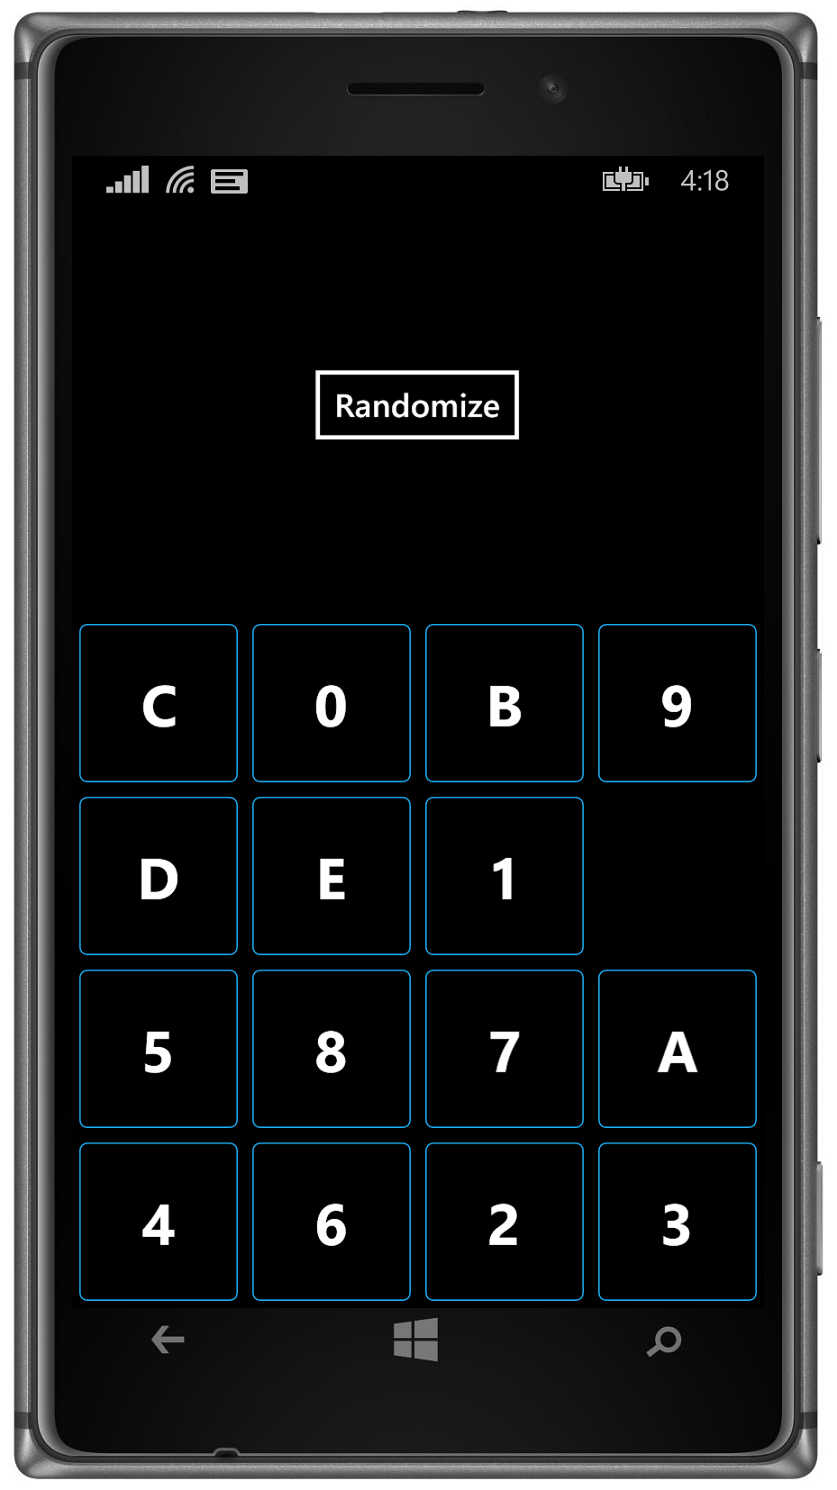
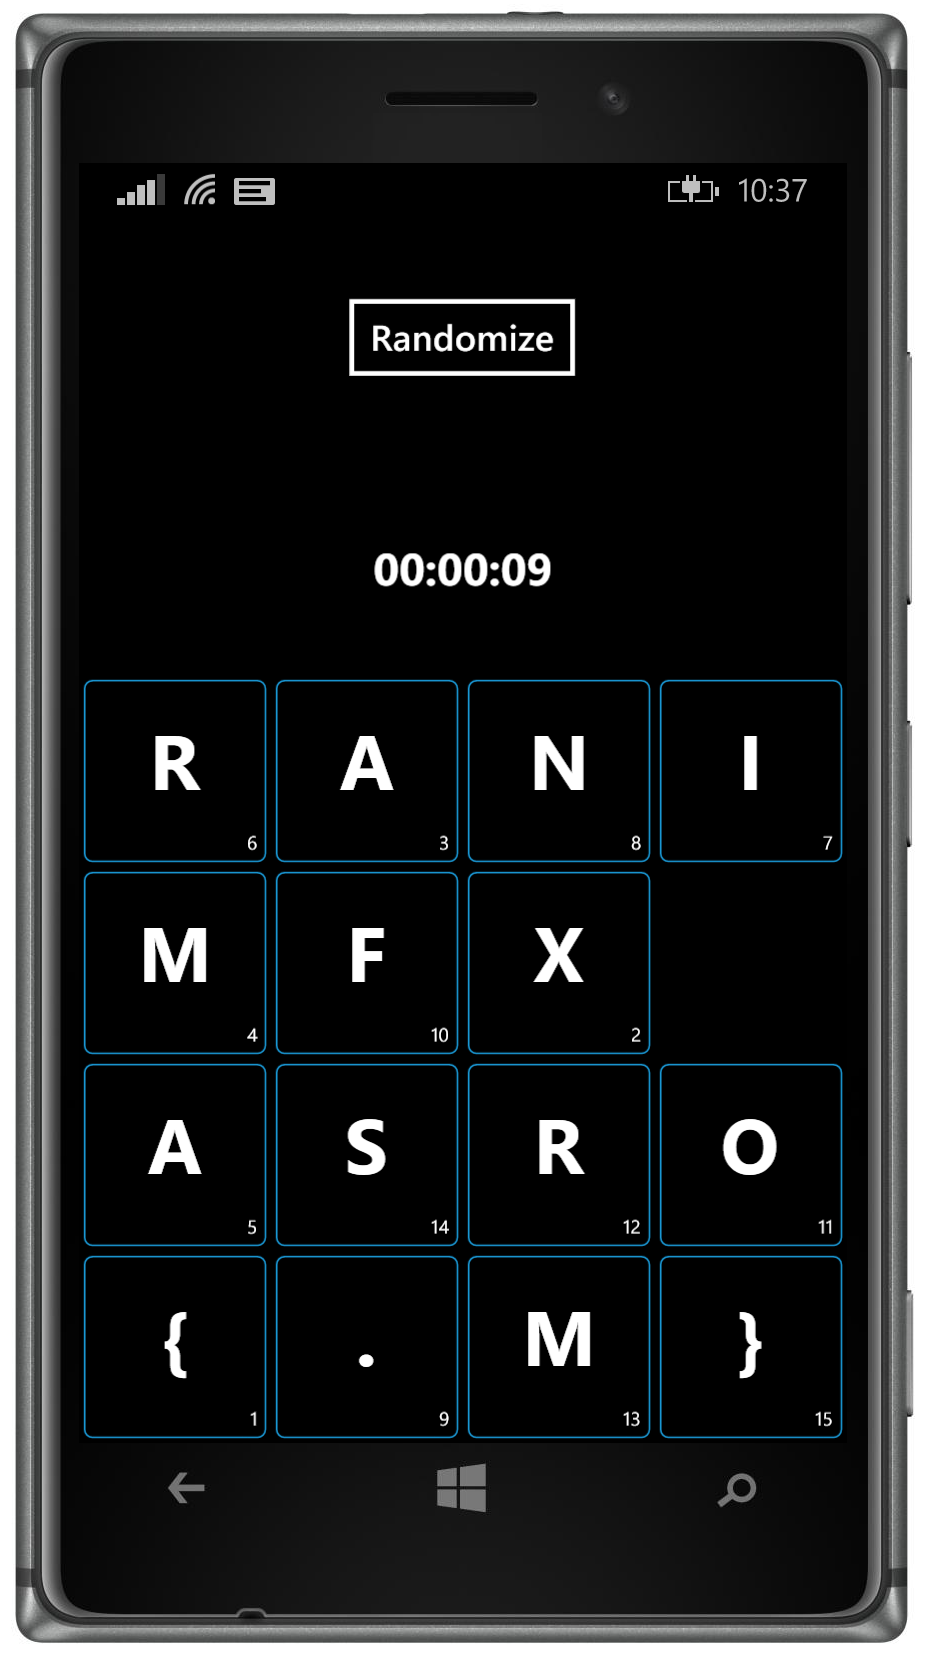
[Xuzzle] Major Revisions
Replacement of tile numbers with "{XAMARIN.FORMS}", addition of
animation "reward" when the puzzle is completed, new screenshots.

diff --git a/Xuzzle/Xuzzle/Xuzzle/XuzzlePage.cs b/Xuzzle/Xuzzle/Xuzzle/XuzzlePage.cs
@@ -7,70 +7,21 @@ namespace Xuzzle
     class XuzzlePage : ContentPage
     {
         // Number of squares horizontally and vertically,
-        //  but if you change it, modify font size as well.
+        //  but if you change it, some code will break.
         static readonly int NUM = 4;
 
-        // Internal custom view for square
-        class Square : ContentView
-        {
-            Label label;
-
-            public Square(string text, int number)
-            {
-                // A Frame surrounding two Labels.
-                label = new Label
-                {
-                    Text = text,
-                    HorizontalOptions = LayoutOptions.Center,
-                    VerticalOptions = LayoutOptions.CenterAndExpand
-                };
-
-                Label tinyLabel = new Label
-                {
-                    Text = number.ToString(),
-                    Font = Font.SystemFontOfSize(NamedSize.Micro),
-                    HorizontalOptions = LayoutOptions.End
-                };
-
-                this.Padding = new Thickness(3);
-                this.Content = new Frame
-                {
-                    OutlineColor = Color.Accent,
-                    Padding = new Thickness(5, 10, 5, 0),
-                    Content = new StackLayout
-                    {
-                        Spacing = 0,
-                        Children = 
-                        {
-                            label,
-                            tinyLabel,
-                        }
-                    }
-                };
-
-                // Don't let touch pass us by.
-                this.BackgroundColor = Color.Transparent;
-            }
-
-            // Retain current Row and Col position.
-            public int Row { set; get; }
-            public int Col { set; get; }
-
-            public Font Font
-            {
-                set { label.Font = value; }
-            }
-        }
-
-        // Array of Square views, and empty row & column.
-        Square[,] squares = new Square[NUM, NUM];
+        // Array of XuzzleSquare views, and empty row & column.
+        XuzzleSquare[,] squares = new XuzzleSquare[NUM, NUM];
         int emptyRow = NUM - 1;
         int emptyCol = NUM - 1;
 
         StackLayout stackLayout;
         AbsoluteLayout absoluteLayout;
+        Button randomizeButton;
+        Label timeLabel;
         double squareSize;
         bool isBusy;
+        bool isPlaying;
 
         public XuzzlePage()
         {
@@ -87,8 +38,9 @@ namespace Xuzzle
                 TappedCallback = OnSquareTapped
             };
 
-            // Create Square's for all the rows and columns.
+            // Create XuzzleSquare's for all the rows and columns.
             string text = "{XAMARIN.FORMS}";
+            string winText = "CONGRATULATIONS";
             int index = 0;
 
             for (int row = 0; row < NUM; row++)
@@ -99,15 +51,15 @@ namespace Xuzzle
                     if (row == NUM - 1 && col == NUM - 1)
                         break;
 
-                    // Create the Square with text.
-                    Square square = new Square(text[index].ToString(), index + 1)
+                    // Instantiate XuzzleSquare.
+                    XuzzleSquare square = new XuzzleSquare(text[index], winText[index], index)
                     {
                         Row = row,
                         Col = col
                     };
                     square.GestureRecognizers.Add(tapGestureRecognizer);
 
-                    // Add it to the array and the AbsoluteLayout
+                    // Add it to the array and the AbsoluteLayout.
                     squares[row, col] = square;
                     absoluteLayout.Children.Add(square);
                     index++;
@@ -115,20 +67,37 @@ namespace Xuzzle
             }
 
             // This is the "Randomize" button.
-            Button button = new Button 
+            randomizeButton = new Button 
             {
                 Text = "Randomize",
-                HorizontalOptions = LayoutOptions.CenterAndExpand,
+                HorizontalOptions = LayoutOptions.Center,
                 VerticalOptions = LayoutOptions.CenterAndExpand
             };
-            button.Clicked += OnRandomizeButtonClicked;
+            randomizeButton.Clicked += OnRandomizeButtonClicked;
+
+            // Label to display elapsed time.
+            timeLabel = new Label
+            {
+                Font = Font.BoldSystemFontOfSize(NamedSize.Large),
+                HorizontalOptions = LayoutOptions.Center,
+                VerticalOptions = LayoutOptions.CenterAndExpand
+            };
 
             // Put everything in a StackLayout.
             stackLayout = new StackLayout
             {
                 Children = 
                 {
-                    button,
+                    new StackLayout
+                    {
+                        VerticalOptions = LayoutOptions.FillAndExpand,
+                        HorizontalOptions = LayoutOptions.FillAndExpand,
+                        Children = 
+                        {
+                            randomizeButton,
+                            timeLabel
+                        }
+                    },
                     absoluteLayout
                 }
             };
@@ -152,7 +121,7 @@ namespace Xuzzle
             stackLayout.Orientation = (width < height) ? StackOrientation.Vertical : 
                                                          StackOrientation.Horizontal;
 
-            // Calculate Square size and position based on stack size.
+            // Calculate square size and position based on stack size.
             squareSize = Math.Min(width, height) / NUM;
             absoluteLayout.WidthRequest = NUM * squareSize;
             absoluteLayout.HeightRequest = NUM * squareSize;
@@ -160,7 +129,7 @@ namespace Xuzzle
 
             foreach (View view in absoluteLayout.Children)
             {
-                Square square = (Square)view;
+                XuzzleSquare square = (XuzzleSquare)view;
                 square.Font = font;
 
                 AbsoluteLayout.SetLayoutBounds(square,
@@ -177,9 +146,31 @@ namespace Xuzzle
                 return;
 
             isBusy = true;
-            Square tappedSquare = (Square)view;
+            XuzzleSquare tappedSquare = (XuzzleSquare)view;
             await ShiftIntoEmpty (tappedSquare.Row, tappedSquare.Col);
             isBusy = false;
+
+            // Check for a "win".
+            if (isPlaying)
+            {
+                int index;
+
+                for (index = 0; index < NUM * NUM - 1; index++)
+                {
+                    int row = index / NUM;
+                    int col = index % NUM;
+                    XuzzleSquare square = squares[row, col];
+                    if (square == null || square.Index != index)
+                        break;
+                }
+                
+                // We have a winner!
+                if (index == NUM * NUM - 1)
+                {
+                    isPlaying = false;
+                    await DoWinAnimation();
+                }
+            }
         }
 
         async Task ShiftIntoEmpty(int tappedRow, int tappedCol, uint length = 100)
@@ -213,7 +204,7 @@ namespace Xuzzle
         async Task AnimateSquare(int row, int col, int newRow, int newCol, uint length)
         {
             // The Square to be animated.
-            Square animaSquare = squares[row, col];
+            XuzzleSquare animaSquare = squares[row, col];
 
             // The destination rectangle.
             Rectangle rect = new Rectangle(squareSize * emptyCol,
@@ -246,6 +237,44 @@ namespace Xuzzle
                 await ShiftIntoEmpty (emptyRow, rand.Next(NUM), 25);
             }
             button.IsEnabled = true;
+
+            // Prepare for playing.
+            DateTime startTime = DateTime.Now;
+
+            Device.StartTimer(TimeSpan.FromSeconds(1), () =>
+                {
+                    // Round duration and get rid of milliseconds.
+                    TimeSpan timeSpan = (DateTime.Now - startTime) + 
+                                            TimeSpan.FromSeconds(0.5);
+                    timeSpan = new TimeSpan(timeSpan.Hours, timeSpan.Minutes, timeSpan.Seconds);
+
+                    // Display the duration.
+                    if (isPlaying)
+                        timeLabel.Text = timeSpan.ToString("t");
+                    return isPlaying;
+                });
+            this.isPlaying = true;
+        }
+
+        async Task DoWinAnimation()
+        {
+            // Inhibit all input.
+            randomizeButton.IsEnabled = false;
+            isBusy = true;
+
+            for (int cycle = 0; cycle < 2; cycle++)
+            {
+                foreach (XuzzleSquare square in squares)
+                    if (square != null)
+                        await square.AnimateWinAsync(cycle == 1);
+
+                if (cycle == 0)
+                    await Task.Delay(1500);
+            }
+
+            // All input.
+            randomizeButton.IsEnabled = true;
+            isBusy = false;
         }
     }
 }

diff --git a/Xuzzle/Xuzzle/Xuzzle/XuzzleSquare.cs b/Xuzzle/Xuzzle/Xuzzle/XuzzleSquare.cs
@@ -1,0 +1,72 @@
+using System;
+using System.Threading.Tasks;
+using Xamarin.Forms;
+
+namespace Xuzzle
+{
+    class XuzzleSquare : ContentView
+    {
+        Label label;
+        string normText, winText;
+
+        public XuzzleSquare(char normChar, char winChar, int index)
+        {
+            this.Index = index;
+            this.normText = normChar.ToString();
+            this.winText = winChar.ToString();
+
+            // A Frame surrounding two Labels.
+            label = new Label
+            {
+                Text = this.normText,
+                HorizontalOptions = LayoutOptions.Center,
+                VerticalOptions = LayoutOptions.CenterAndExpand
+            };
+
+            Label tinyLabel = new Label
+            {
+                Text = (index + 1).ToString(),
+                Font = Font.SystemFontOfSize(NamedSize.Micro),
+                HorizontalOptions = LayoutOptions.End
+            };
+
+            this.Padding = new Thickness(3);
+            this.Content = new Frame
+            {
+                OutlineColor = Color.Accent,
+                Padding = new Thickness(5, 10, 5, 0),
+                Content = new StackLayout
+                {
+                    Spacing = 0,
+                    Children = 
+                        {
+                            label,
+                            tinyLabel,
+                        }
+                }
+            };
+
+            // Don't let touch pass us by.
+            this.BackgroundColor = Color.Transparent;
+        }
+
+        // Retain current Row and Col position.
+        public int Index { private set; get; }
+        public int Row { set; get; }
+        public int Col { set; get; }
+
+        public Font Font
+        {
+            set { label.Font = value; }
+        }
+
+        public async Task AnimateWinAsync(bool isReverse)
+        {
+            uint length = 150;
+            await Task.WhenAll(this.ScaleTo(3, length), this.RotateTo(180, length));
+            label.Text = isReverse ? normText : winText;
+            await Task.WhenAll(this.ScaleTo(1, length), this.RotateTo(360, length));
+            this.Rotation = 0;
+        }
+    }
+}

diff --git a/Xuzzle/README.md b/Xuzzle/README.md
@@ -1,18 +1,22 @@
 Xuzzle
 ======
 
-This is the classic 14-15 puzzle. On the early Mac it was called PUZZLE, and it was the only sample
-application in Microsoft Pascal for Windows 1.0, where it was called MUZZLE (for "Microsoft Puzzle").
-This is the Xamarin.Forms version, so it's called Xuzzle. Because the program is for developers, the squares
-are identified in hexadecimal.
+This is a variation of the classic 14-15 puzzle. On the early Mac, the 14-15 program was called PUZZLE.
+In early Windows, it was the only sample
+application for Microsoft Pascal for Windows 1.0, where it was called MUZZLE (for "Microsoft Puzzle").
+This is the Xamarin.Forms version, so it's called Xuzzle, and the 15 tiles spell out the text
+"{XAMARIN.FORMS}".
 
 **If you open the solution in Xamarin Studio, it will not be able to load the Windows Phone project;
 and if you open the solution in Xamarin Studio under Windows, it will not be able to load the iOS project either.**
 
-Just tap a square to move it into an empty position. You can *tap* any square in the row or column 
-of the empty position to move one, two, or three squares at once.
+After pressing the Randomize button, just tap a tile to move it into an empty position. 
+You can *tap* any tile in the row or column 
+of the empty position to move one, two, or three tiles at once. 
+Use the numbers in the lower-right corner of each tile as a guide.
 
-**An issue exists as of 5/8/14 and Build 1.0.6560: the default XAML namespace will soon undergo a change.**
+When you successfully complete the puzzle, you'll be rewarded with an animation.
+
 
 Author
 ------
